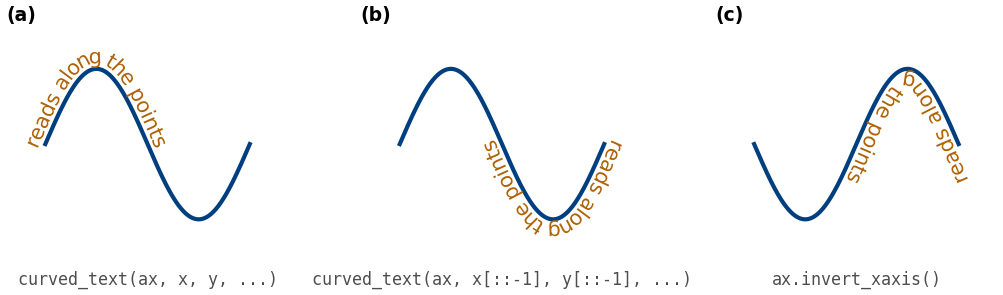
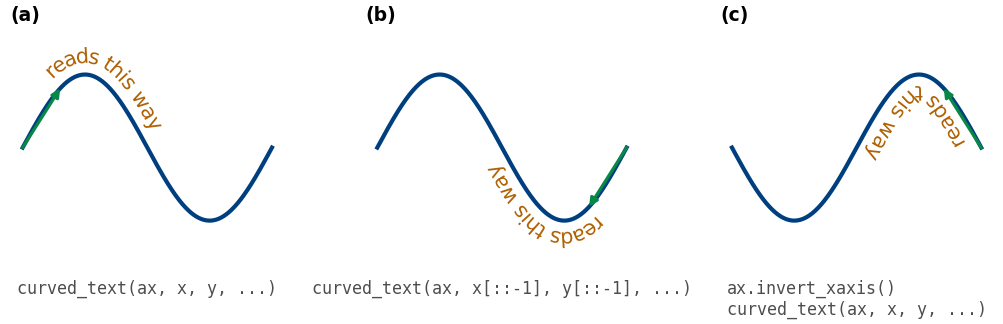
Mark the direction of travel in 17, show the casing pad in 18, cross 19 with thin lines a halo clears, and put 26(c) on zeros on a visible log axis

diff --git a/examples/example_17_direction_of_travel.py b/examples/example_17_direction_of_travel.py
@@ -1,11 +1,14 @@
-"""The direction of travel decides which way up a label reads.
+"""Why a label reads upside down: the direction of travel.
 
-Text reads in the order of the curve's points as they appear on screen. The
-same sine, labelled three ways: (a) the points from left to right, upright;
-(b) the arrays reversed, so the curve runs from right to left and the label
-reads upside down; (c) the points from left to right on an inverted x axis,
-which also puts them right to left on screen. Reversing the arrays of a curve
-that runs from right to left on screen turns its label upright.
+Text reads in the order of the curve's points as they appear on screen, and
+an arrow on each curve marks that direction from its first point. The same
+sine, labelled three ways: (a) the points from left to right, upright; (b)
+the arrays reversed, so the curve runs from right to left and the label reads
+upside down; (c) the points from left to right on an inverted x axis, which
+also puts them right to left on screen. ``pos`` counts from the first point
+and ``offset`` turns with the direction too, so the label also moves along
+and across the curve. Reversing the arrays of a curve that runs from right to
+left on screen turns its label upright.
 """
 from __future__ import annotations
 
@@ -14,12 +17,21 @@ import os
 import numpy as np
 
 from curved_text import curved_text
-from _style import (CURVE_COLOR, LABEL_COLOR, bare, caption, figure,
-                    panel_letters, save)
+from _style import (CURVE_COLOR, LABEL_COLOR, MARK_COLOR, bare, caption,
+                    figure, panel_letters, save)
+
+
+def _direction_arrow(ax, x, y):
+    """An arrow along the curve from its first point, in the direction the
+    points run."""
+    ax.annotate("", xy=(x[60], y[60]), xytext=(x[0], y[0]),
+                arrowprops={"arrowstyle": "-|>", "color": MARK_COLOR,
+                            "linewidth": 1.5, "shrinkA": 0, "shrinkB": 0},
+                zorder=4)
 
 
 def make(images_dir):
-    fig = figure(17, 5, font_size=8)
+    fig = figure(17, 5.5, font_size=8)
     axes = fig.subplots(1, 3)
 
     x = np.linspace(0, 2 * np.pi, 400)
@@ -27,19 +39,18 @@ def make(images_dir):
     panels = [
         (x, y, False, "curved_text(ax, x, y, ...)"),
         (x[::-1], y[::-1], False, "curved_text(ax, x[::-1], y[::-1], ...)"),
-        (x, y, True, "ax.invert_xaxis()"),
+        (x, y, True, "ax.invert_xaxis()\ncurved_text(ax, x, y, ...)"),
     ]
     for ax, (cx, cy, invert, call) in zip(axes, panels):
         bare(ax)
         ax.plot(x, y, color=CURVE_COLOR, linewidth=2)
-        # Room on either side, so a label near an end is not clipped.
-        ax.set_xlim(-1.2, 2 * np.pi + 1.2)
-        ax.set_ylim(-1.5, 1.5)
+        ax.set_xlim(-0.3, 2 * np.pi + 0.3)
+        ax.set_ylim(-1.6, 1.6)
         if invert:
             ax.invert_xaxis()
-        curved_text(ax, cx, cy, "reads along the points", pos=0.25,
-                    anchor="center", offset=6.0, color=LABEL_COLOR,
-                    fontsize=10)
+        _direction_arrow(ax, cx, cy)
+        curved_text(ax, cx, cy, "reads this way", pos=0.3, anchor="center",
+                    offset=9.0, color=LABEL_COLOR, fontsize=10)
         caption(ax, call)
     panel_letters(axes)
 

diff --git a/examples/example_26_gaps.py b/examples/example_26_gaps.py
@@ -1,11 +1,12 @@
 """Gaps in the curve: the label rides the stretch that holds its anchor.
 
-A curve breaks where ``plot`` breaks it, and the label sits on the stretch of
-curve that holds its anchor, with ``pos`` measured along the drawn length.
-(a) NaN points: the square root of a cosine is undefined where the cosine is
-negative. (b) Masked points: a tangent masked where it runs off toward its
-poles. (c) A log axis, which has no place for the values of 0 or less where
-the curve dips below zero.
+A curve breaks where it has no value to draw, and the label sits on the
+stretch of curve that holds its anchor, with ``pos`` measured along the drawn
+length. (a) NaN points: the square root of a cosine is undefined where the
+cosine is negative. (b) Masked points: a tangent masked where it runs off
+toward its poles. (c) Zeros on a log axis, which has no place for them: a
+signal recorded as 0 where it drops out, as counts below a detection limit
+are. Its axis shows the logarithmic scale.
 """
 from __future__ import annotations
 
@@ -14,7 +15,7 @@ import os
 import numpy as np
 
 from curved_text import curved_text
-from _style import (CURVE_COLOR, LABEL_COLOR, bare, caption, figure,
+from _style import (CURVE_COLOR, LABEL_COLOR, bare, caption, data_axes, figure,
                     panel_letters, save)
 
 
@@ -25,22 +26,33 @@ def make(images_dir):
     x = np.linspace(0, 4 * np.pi, 800)
     with np.errstate(invalid="ignore"):
         root = np.sqrt(np.cos(x))
-    tangent = np.ma.masked_where(np.abs(np.tan(x / 2)) > 4, np.tan(x / 2))
-    dips = 1.0 + 1.5 * np.sin(x)
+    t = np.tan(x / 2)
+    tangent = np.ma.masked_where(np.abs(t) > 4, t)
+    signal = np.where(np.sin(x) > -0.5, 10 ** np.sin(x), 0.0)
     panels = [
-        (root, (-0.2, 1.4), "linear",
+        (root, (-0.2, 1.4), "linear", 0.5,
          "y = np.sqrt(np.cos(x))\n# NaN where cos(x) < 0"),
-        (tangent, (-4.5, 4.5), "linear",
-         "y = np.ma.masked_where(\n    abs(t) > 4, t)"),
-        (dips, (0.05, 4.0), "log", 'ax.set_yscale("log")'),
+        (tangent, (-4.5, 4.5), "linear", 0.5,
+         "t = np.tan(x / 2)\ny = np.ma.masked_where(\n    np.abs(t) > 4, t)"),
+        (signal, (0.2, 20.0), "log", 0.67,
+         'y = np.where(np.sin(x) > -0.5,\n'
+         '             10 ** np.sin(x), 0)\n'
+         'ax.set_yscale("log")'),
     ]
-    for ax, (y, ylim, scale, call) in zip(axes, panels):
-        bare(ax)
+    for ax, (y, ylim, scale, pos, call) in zip(axes, panels):
+        if scale == "log":
+            # The scale is the subject here, so its axis stays visible.
+            data_axes(ax, font_size=7)
+            ax.set_xticks([])
+        else:
+            bare(ax)
         ax.plot(x, y, color=CURVE_COLOR, linewidth=2)
         ax.set_yscale(scale)
-        ax.set_xlim(0, 4 * np.pi)
+        # Room at the sides, so the space between panels reads as a margin,
+        # not as another gap.
+        ax.set_xlim(-0.8, 4 * np.pi + 0.8)
         ax.set_ylim(*ylim)
-        curved_text(ax, x, y, "a stretch", pos=0.5, anchor="center",
+        curved_text(ax, x, y, "a stretch", pos=pos, anchor="center",
                     offset=6.0, color=LABEL_COLOR, fontsize=10)
         caption(ax, call)
     panel_letters(axes)

diff --git a/examples/example_19_halo_or_box.py b/examples/example_19_halo_or_box.py
@@ -1,11 +1,12 @@
 """A halo or a box: two ways to keep a label legible over the lines it crosses.
 
-The same label over a dense grid of thin lines, cleared two ways. (a) A thin
-white halo around each glyph (``path_effects`` with ``withStroke``): it hides
-the lines only where they touch the letters, so the grid stays visible around
-them, which suits thin lines and dense figures. (b) A casing (``box``, here
-in its colour-string form): one band under the whole label, which gives solid
-coverage over heavier lines at the cost of hiding more of them.
+The same label over a family of thin lines that cross it at a steep angle,
+cleared two ways. (a) A halo, a thin white ``withStroke`` around each glyph
+(``path_effects``): it hides the lines only where they touch the letters, so
+they stay readable on either side of each letter, which suits thin lines and
+dense figures. (b) A casing (``box``, here in its colour-string form, white
+to match the page): one band under the whole label, which clears heavy lines
+completely, but also erases every line inside the band.
 """
 from __future__ import annotations
 
@@ -20,28 +21,28 @@ from _style import (CURVE_COLOR, LABEL_COLOR, bare, caption, figure,
 
 
 def make(images_dir):
-    fig = figure(17, 8, font_size=8)
+    fig = figure(17, 6.5, font_size=8)
     axes = fig.subplots(2, 1)
 
     x = np.linspace(0, 10, 400)
-    y = 1.0 + 0.6 * np.sin(np.pi * x / 10.0)
+    y = 1.0 + 0.4 * np.sin(np.pi * x / 10.0)
     panels = [
-        ({"path_effects": [patheffects.withStroke(linewidth=3,
-                                                  foreground="white")]},
-         'path_effects=[withStroke(linewidth=3, foreground="white")]'),
-        ({"box": "white"}, 'box="white"'),
+        ('path_effects=[withStroke(linewidth=3, foreground="white")]',
+         {"path_effects": [patheffects.withStroke(linewidth=3,
+                                                  foreground="white")]}),
+        ('box="white"', {"box": "white"}),
     ]
-    for ax, (kwargs, call) in zip(axes, panels):
+    for ax, (call, kwargs) in zip(axes, panels):
         bare(ax)
-        # A dense grid of thin lines, the background a halo is made for.
-        for level in np.arange(0.0, 2.21, 0.1):
-            ax.axhline(level, color="0.55", linewidth=0.6, zorder=1)
-        for position in np.arange(0.0, 10.01, 0.5):
-            ax.axvline(position, color="0.55", linewidth=0.6, zorder=1)
-        ax.plot(x, y, color=CURVE_COLOR, linewidth=2, zorder=2)
         ax.set_xlim(0, 10)
-        ax.set_ylim(0, 2.2)
-        curved_text(ax, x, y, "legible over a dense grid", pos=0.5,
+        ax.set_ylim(0.4, 1.9)
+        # A family of thin parallel lines crossing the label steeply, like the
+        # traces of a dense plot behind it.
+        for intercept in np.arange(-30.0, 10.5, 0.6):
+            ax.plot(x, 3.0 * x + intercept, color="0.55", linewidth=0.6,
+                    zorder=1)
+        ax.plot(x, y, color=CURVE_COLOR, linewidth=2, zorder=2)
+        curved_text(ax, x, y, "legible over thin lines", pos=0.5,
                     anchor="center", offset=10.0, color=LABEL_COLOR,
                     fontsize=13, zorder=3, **kwargs)
         caption(ax, call)

diff --git a/examples/example_18_repeated_labels.py b/examples/example_18_repeated_labels.py
@@ -1,9 +1,11 @@
 """Several labels on one long curve, as inline contour labels repeat.
 
 One call per label, each at its own ``pos``, so a long curve carries its name
-wherever the reader's eye meets it. Each label clears the line with a casing,
-given here in its dict form, which sets the band's colour and its height
-relative to the tallest glyph.
+wherever the reader's eye meets it. Each label sits on a slope between a peak
+and a trough, so the decay of the oscillation stays visible, and clears the
+faint reference lines behind it with a casing, given here in its dict form:
+``pad`` sets the band's height relative to the tallest glyph, and ``color``
+its colour, white to match the page.
 """
 from __future__ import annotations
 
@@ -14,7 +16,7 @@ import numpy as np
 from curved_text import curved_text
 from _style import CURVE_COLOR, LABEL_COLOR, bare, caption, figure, save
 
-POSITIONS = (0.12, 0.5, 0.88)
+POSITIONS = (0.2, 0.52, 0.84)
 
 
 def make(images_dir):
@@ -25,17 +27,21 @@ def make(images_dir):
     # A damped oscillation over several periods: a long curve with bends.
     x = np.linspace(0, 6 * np.pi, 1200)
     y = np.exp(-x / 12.0) * np.sin(x)
-    ax.plot(x, y, color=CURVE_COLOR, linewidth=1.5)
     ax.set_xlim(-0.3, 6 * np.pi + 0.3)
     ax.set_ylim(-1.2, 1.2)
+    # Faint reference lines, so the casing's band, and its height, show where
+    # it clears them.
+    for level in np.arange(-1.0, 1.01, 0.25):
+        ax.axhline(level, color="0.85", linewidth=0.6, zorder=1)
+    ax.plot(x, y, color=CURVE_COLOR, linewidth=1.5, zorder=2)
 
     for pos in POSITIONS:
         curved_text(ax, x, y, "damped response", pos=pos, anchor="center",
-                    color=LABEL_COLOR, fontsize=10,
+                    color=LABEL_COLOR, fontsize=10, zorder=3,
                     box={"color": "white", "pad": 1.3})
 
-    caption(ax, 'for pos in (0.12, 0.5, 0.88):\n'
-                '    curved_text(ax, x, y, "damped response", pos=pos,\n'
+    caption(ax, f'for pos in {POSITIONS}:\n'
+                '    curved_text(ax, x, y, "damped response", pos=pos, ...,\n'
                 '                box={"color": "white", "pad": 1.3})')
 
     path = os.path.join(images_dir, "18_repeated_labels.png")
